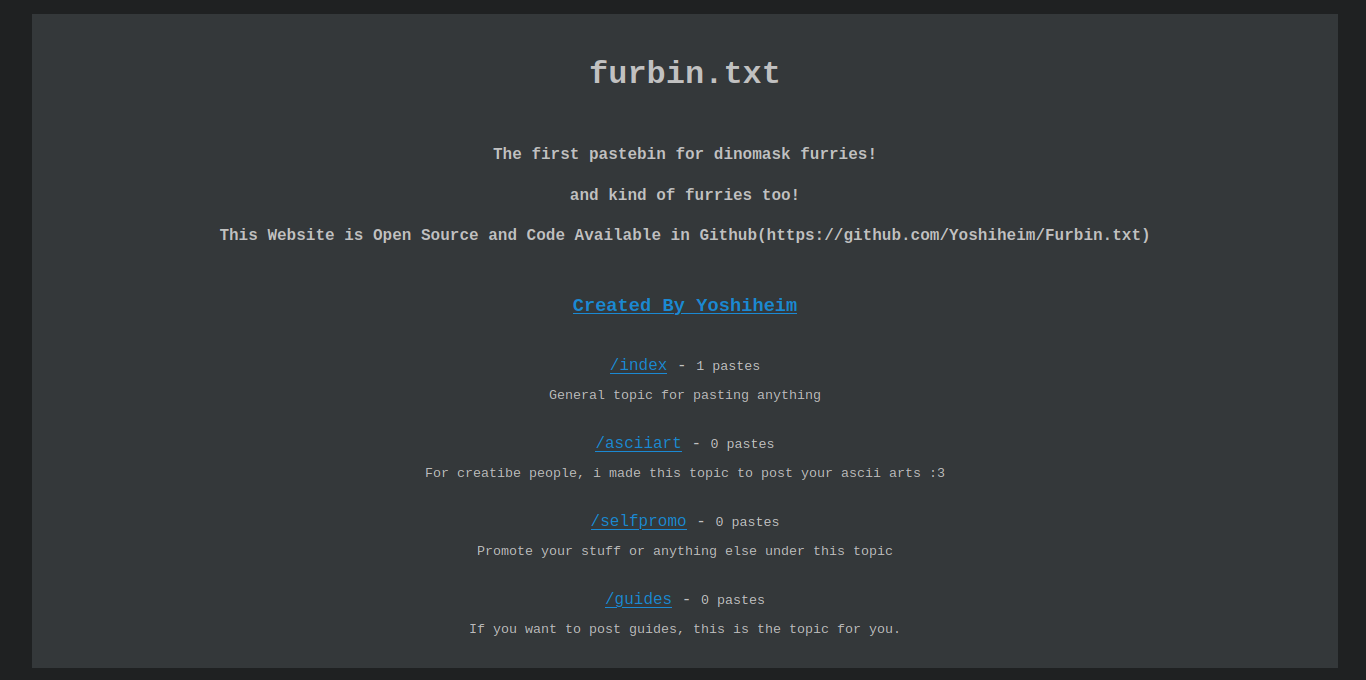
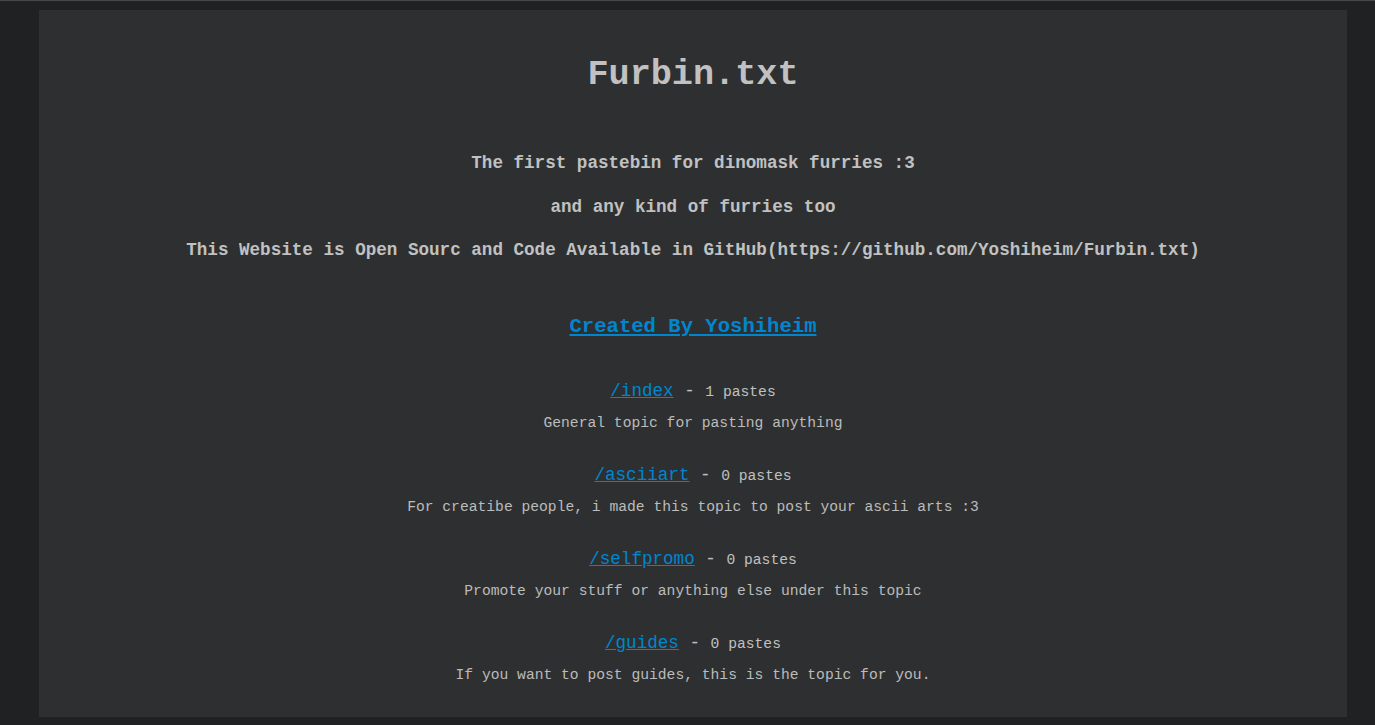
some updates

diff --git a/templates/index.html b/templates/index.html
@@ -14,12 +14,12 @@
     </title>
 </head>
 <body>
-    {{if .logo}}
-        <h6 style="font-size: 1px; white-space: pre;color: rgb(255, 255, 255); font-weight: 10; text-align: center;">
-            {{.logo}}
-        </h6>
-    {{end}}
-    <div class="pas">
+    <div class="pas">  
+        {{if .logo}}
+            <h6 style="font-size: 1px; white-space: pre;color: rgb(255, 255, 255); font-weight: 10; text-align: center;">
+                {{.logo}}
+            </h6>
+        {{end}}
         {{if .textlogo}}
             <h3 style="white-space: pre">{{.textlogo}}</h3>
         {{end}}
@@ -29,14 +29,14 @@
                     {{Escape .data.Name}}
                 </h1>
             {{end}}
-            
-            {{if .data.Description}}
-                <div>
-                    {{range .data.Description}}
-                        <h4>{{.}}</h4>
-                    {{end}}
-                </div>
-                    
+            {{if eq .data.Description.Hide false}}
+                {{if .data.Description.Text}}
+                    <div>
+                        {{range .data.Description.Text}}
+                            <h4>{{.}}</h4>
+                        {{end}}
+                    </div>
+                {{end}}
             {{end}}
             {{if .data.CreatorsGithub}}
                 <h3>  

diff --git a/data/config.go b/data/config.go
@@ -11,20 +11,25 @@ import (
 
 // All configs for 'config.json' for avoid hardcoding :3
 type Config struct {
-	Port           string      `json:"port"`
-	Host           string      `json:"host"`
-	Name           string      `json:"name"`
-	TextLogo       TextLogoCfg `json:"text_logo"`
-	Description    []string    `json:"Description"`
-	CreatorsGithub string      `json:"creators_github"`
-	Theme          uint        `json:"theme"`
-	FaviconPath    string      `json:"favicon_path"`
-	DBFilename     string      `json:"db_filename"`
-	Logo           LogoCfg     `json:"logo"`
-	ClearTimer     ClearTimer  `json:"clear_timer"`
-	Limit          Limit       `json:"limit"`
-	Topics         []Topic     `json:"topics"`
-	Pastes         []Paste     `json:"pastes"`
+	Port           string       `json:"port"`
+	Host           string       `json:"host"`
+	Name           string       `json:"name"`
+	TextLogo       TextLogoCfg  `json:"text_logo"`
+	Description    Descriptions `json:"description"`
+	CreatorsGithub string       `json:"creators_github"`
+	Theme          uint         `json:"theme"`
+	FaviconPath    string       `json:"favicon_path"`
+	DBFilename     string       `json:"db_filename"`
+	Logo           LogoCfg      `json:"logo"`
+	ClearTimer     ClearTimer   `json:"clear_timer"`
+	Limit          Limit        `json:"limit"`
+	Topics         []Topic      `json:"topics"`
+	Pastes         []Paste      `json:"pastes"`
+}
+
+type Descriptions struct {
+	Hide bool     `json:"hide"`
+	Text []string `json:"text"`
 }
 
 type TextLogoCfg struct {
